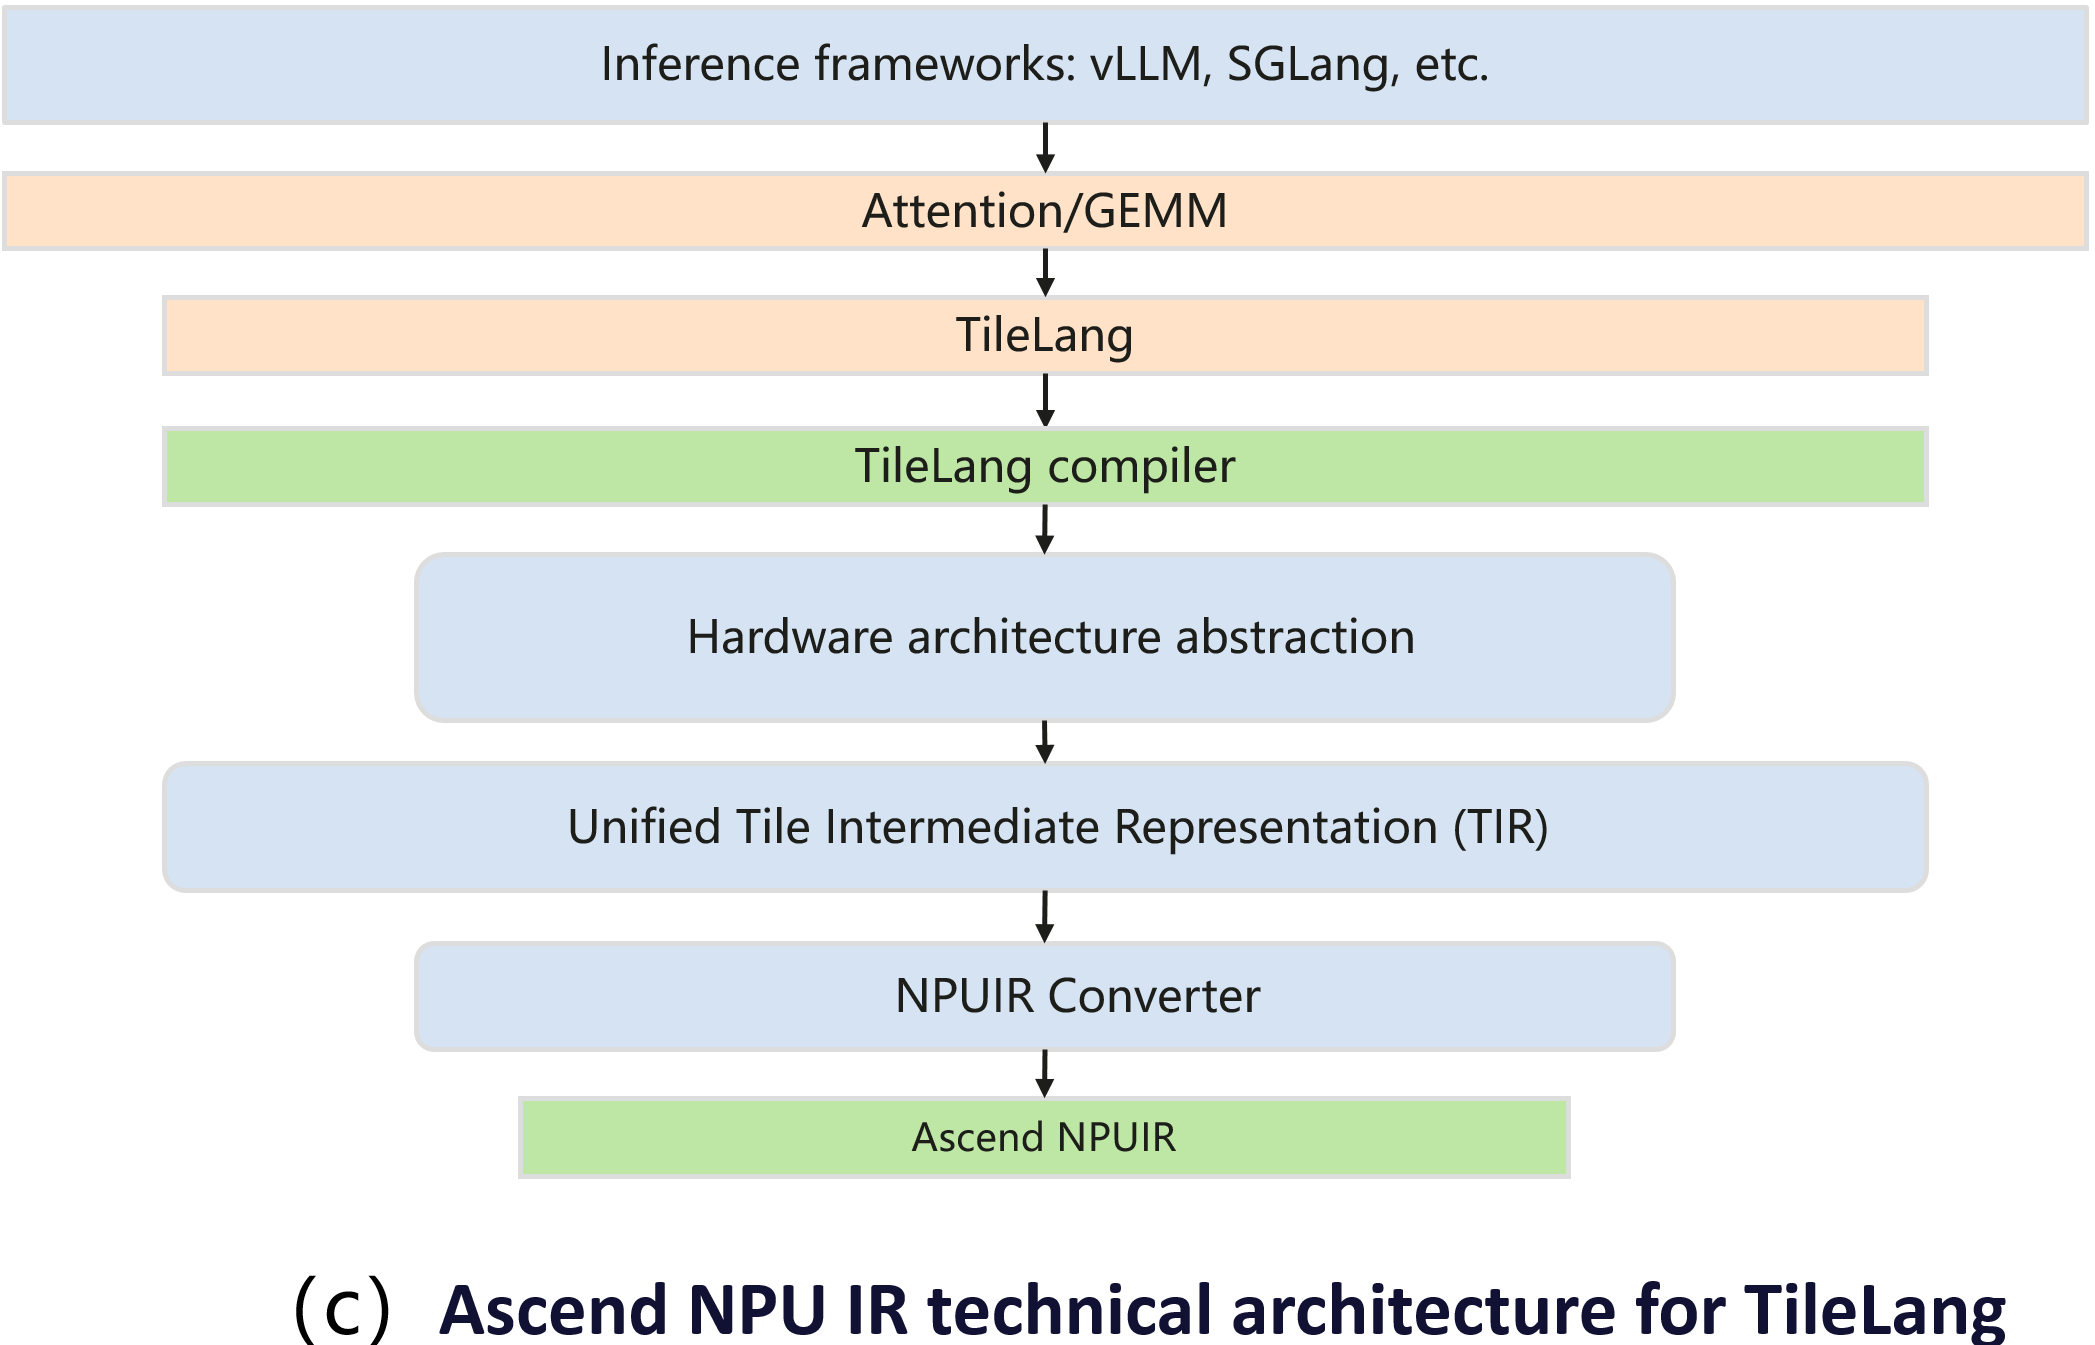
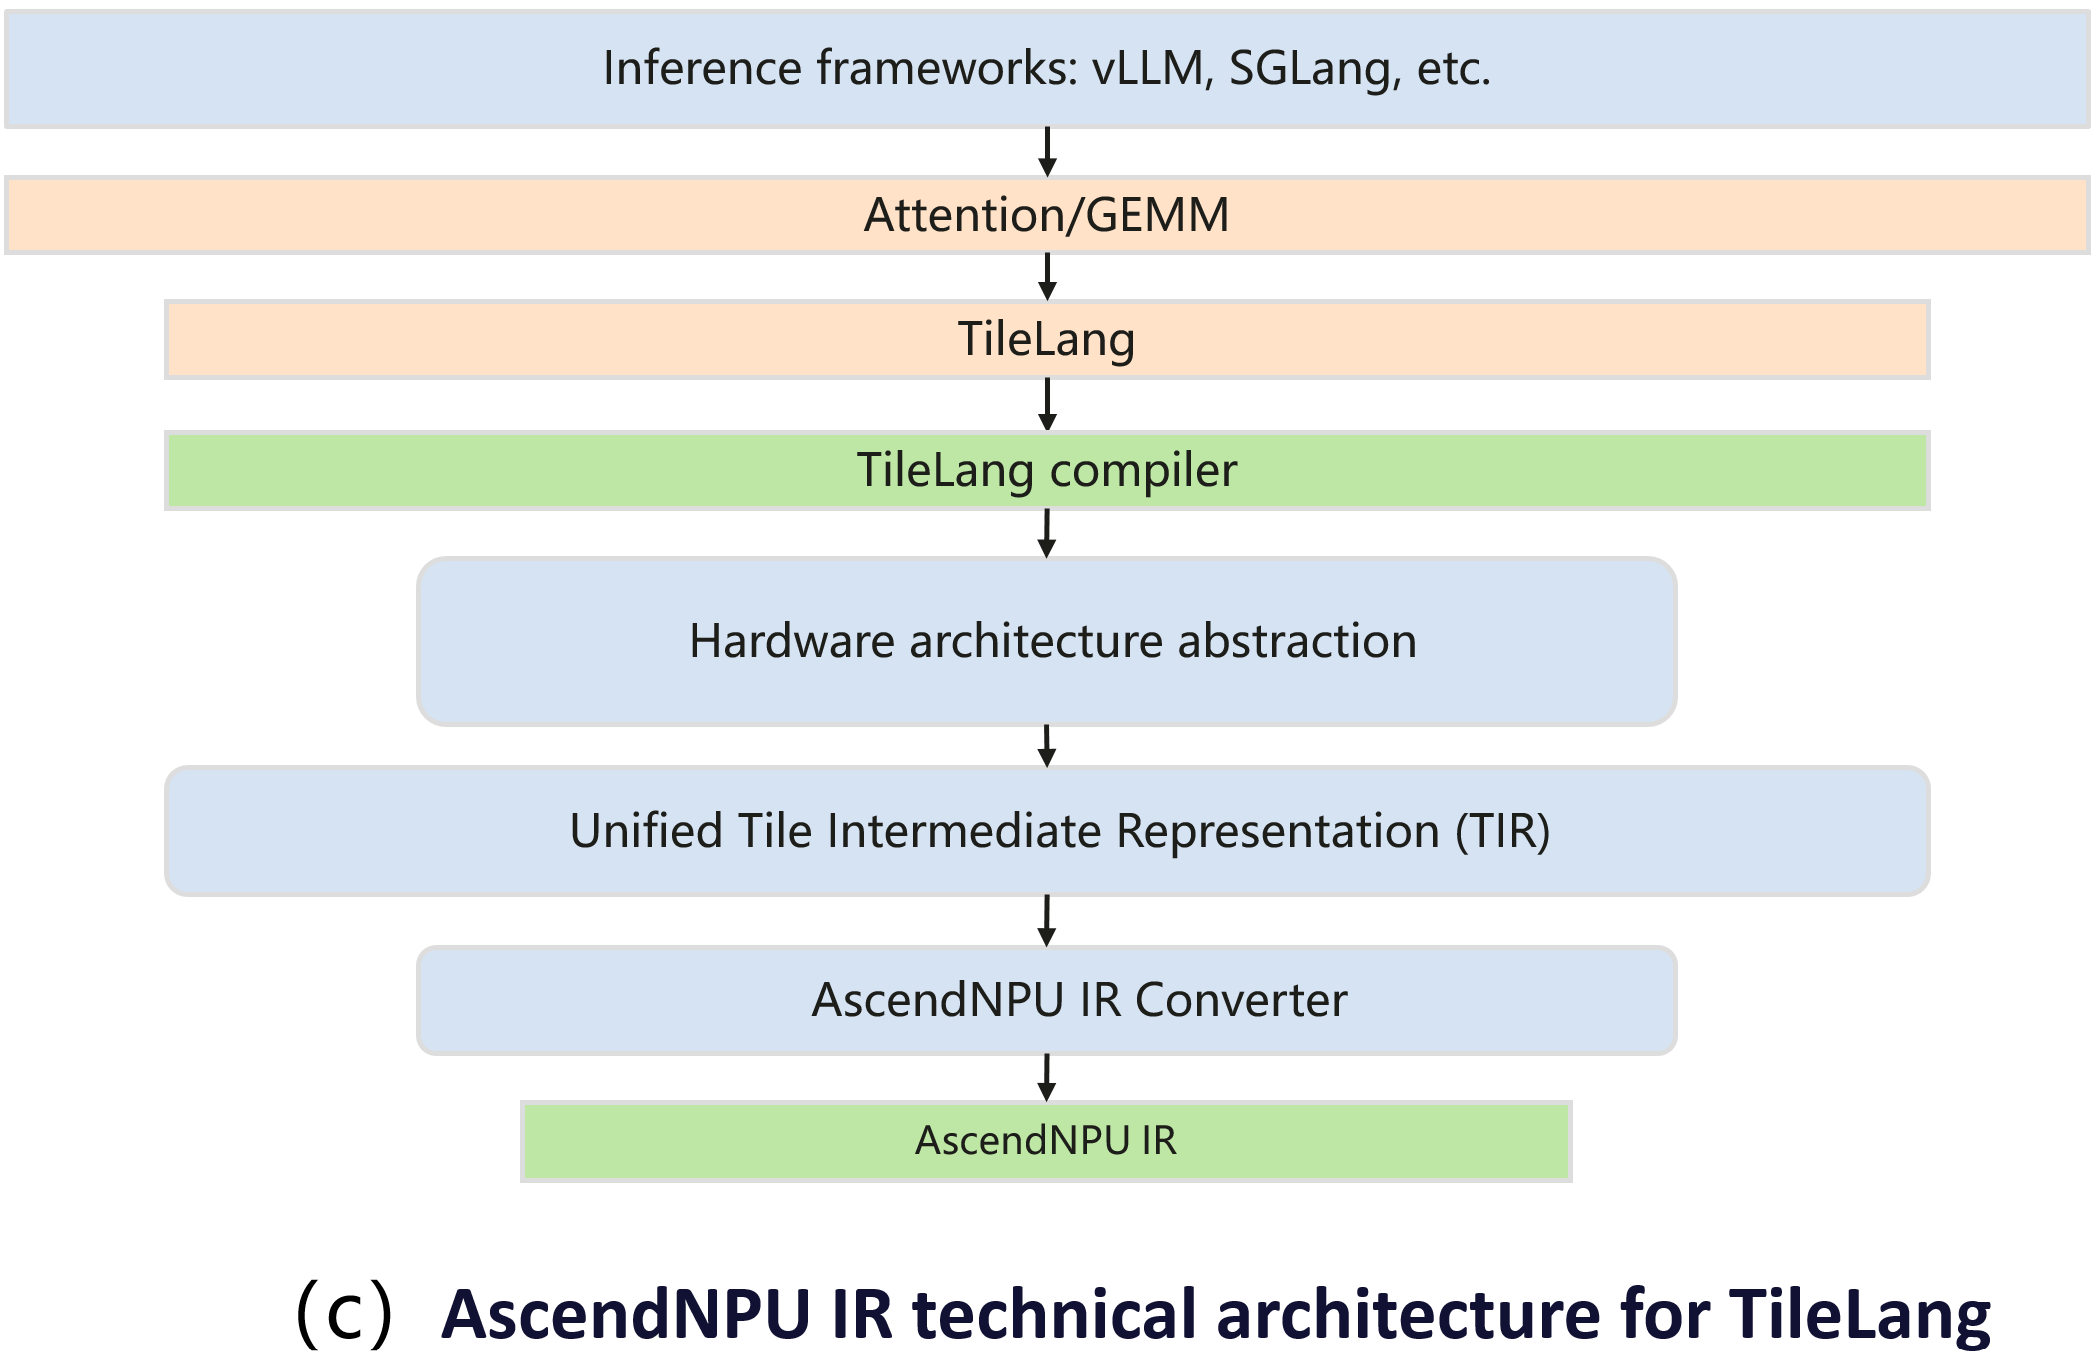
Update README for AscendNPU IR terminology (#6)
* Update README for AscendNPU IR terminology

* update images

diff --git a/README.md b/README.md
@@ -8,7 +8,7 @@
 
 Tile Language Ascend (**tilelang-ascend**) is a specialized variant of the tile-lang domain-specific language, specifically optimized for Huawei Ascend NPU (Neural Processing Unit) architecture. Built upon the foundation of tile-lang's Pythonic syntax and [TVM](https://tvm.apache.org/) compiler infrastructure, tilelang-ascend enables developers to efficiently create high-performance AI compute kernels tailored for Ascend processors, including operations like GEMM, vector operations, and attention mechanisms. Tilelang-ascend allows developers to focus on productivity without sacrificing the low-level optimizations necessary for state-of-the-art performance on the NPU.
 
-Within the TileLang ecosystem, we have developed an NPU Intermediate Representation (NPUIR) infrastructure specifically for Ascend, enabling seamless integration into the open-source AI compiler ecosystem based on MLIR. This effort not only enhances the openness and extensibility of the compiler stack but also provides developers with a more flexible and efficient pathway for custom operator development. The compiler backend supports two technical routes: [AscendNPU IR](https://github.com/tile-ai/tilelang-ascend/tree/npuir) and [Ascend C & PTO](https://github.com/tile-ai/tilelang-ascend/tree/ascendc_pto).
+Within the TileLang ecosystem, we have developed an NPU Intermediate Representation (AscendNPU IR) infrastructure specifically for Ascend, enabling seamless integration into the open-source AI compiler ecosystem based on MLIR. This effort not only enhances the openness and extensibility of the compiler stack but also provides developers with a more flexible and efficient pathway for custom operator development. The compiler backend supports two technical routes: [AscendNPU IR](https://github.com/tile-ai/tilelang-ascend/tree/npuir) and [Ascend C & PTO](https://github.com/tile-ai/tilelang-ascend/tree/ascendc_pto).
 
 <img src=./images/MatmulExample.png />
 <div align="center">
@@ -17,7 +17,7 @@ Within the TileLang ecosystem, we have developed an NPU Intermediate Representat
 
 
 ## Latest News
-- 29/09/2025 🚀: Officially establish the NPU Intermediate Representation (NPUIR) infrastructure for Ascend within the TileLang ecosystem, deeply integrating into the open-source AI compiler ecosystem based on MLIR. At the same time, deliver peak performance—fusion operators such as FlashAttention (FA) written in TileLang achieve performance on Ascend hardware that matches hand-written AscendC equivalents at a 1.0x level, balancing both development efficiency and ultimate performance!
+- 29/09/2025 🚀: Officially establish the NPU Intermediate Representation (AscendNPU IR) infrastructure for Ascend within the TileLang ecosystem, deeply integrating into the open-source AI compiler ecosystem based on MLIR. At the same time, deliver peak performance—fusion operators such as FlashAttention (FA) written in TileLang achieve performance on Ascend hardware that matches hand-written AscendC equivalents at a 1.0x level, balancing both development efficiency and ultimate performance!
 
 ## Tested Devices
 Although TileLang aims to support portability across a variety of devices, it has been specifically tested and validated on the following hardware:Huawei Ascend AI accelerators,including Ascend 310-based inference cards and Ascend 910-based training cards.
@@ -106,7 +106,7 @@ pip install pybind11 torch_npu
 
 ## Quick Start
 
-This code implements a vector addition kernel using TileLang, a domain-specific language for NPU (Neural Processing Unit) programming. It defines a parallel kernel that adds two float32 vectors of length 4096 on the NPU by loading data into on-chip unified buffers, performing element-wise addition via a low-level NPU instruction (`npuir_add`), and writing the result back to global memory. The test function compares the kernel’s output against PyTorch’s native vector addition to verify correctness. The example runs on NPU device 6 and demonstrates basic TileLang workflow: kernel definition, compilation to NPU IR, and execution with PyTorch tensors.
+This code implements a vector addition kernel using TileLang, a domain-specific language for NPU (Neural Processing Unit) programming. It defines a parallel kernel that adds two float32 vectors of length 4096 on the NPU by loading data into on-chip unified buffers, performing element-wise addition via a low-level NPU instruction (`npuir_add`), and writing the result back to global memory. The test function compares the kernel’s output against PyTorch’s native vector addition to verify correctness. The example runs on NPU device 6 and demonstrates basic TileLang workflow: kernel definition, compilation to AscendNPU IR, and execution with PyTorch tensors.
 
 ```python
 # Copyright (c) Tile-AI Corporation.
